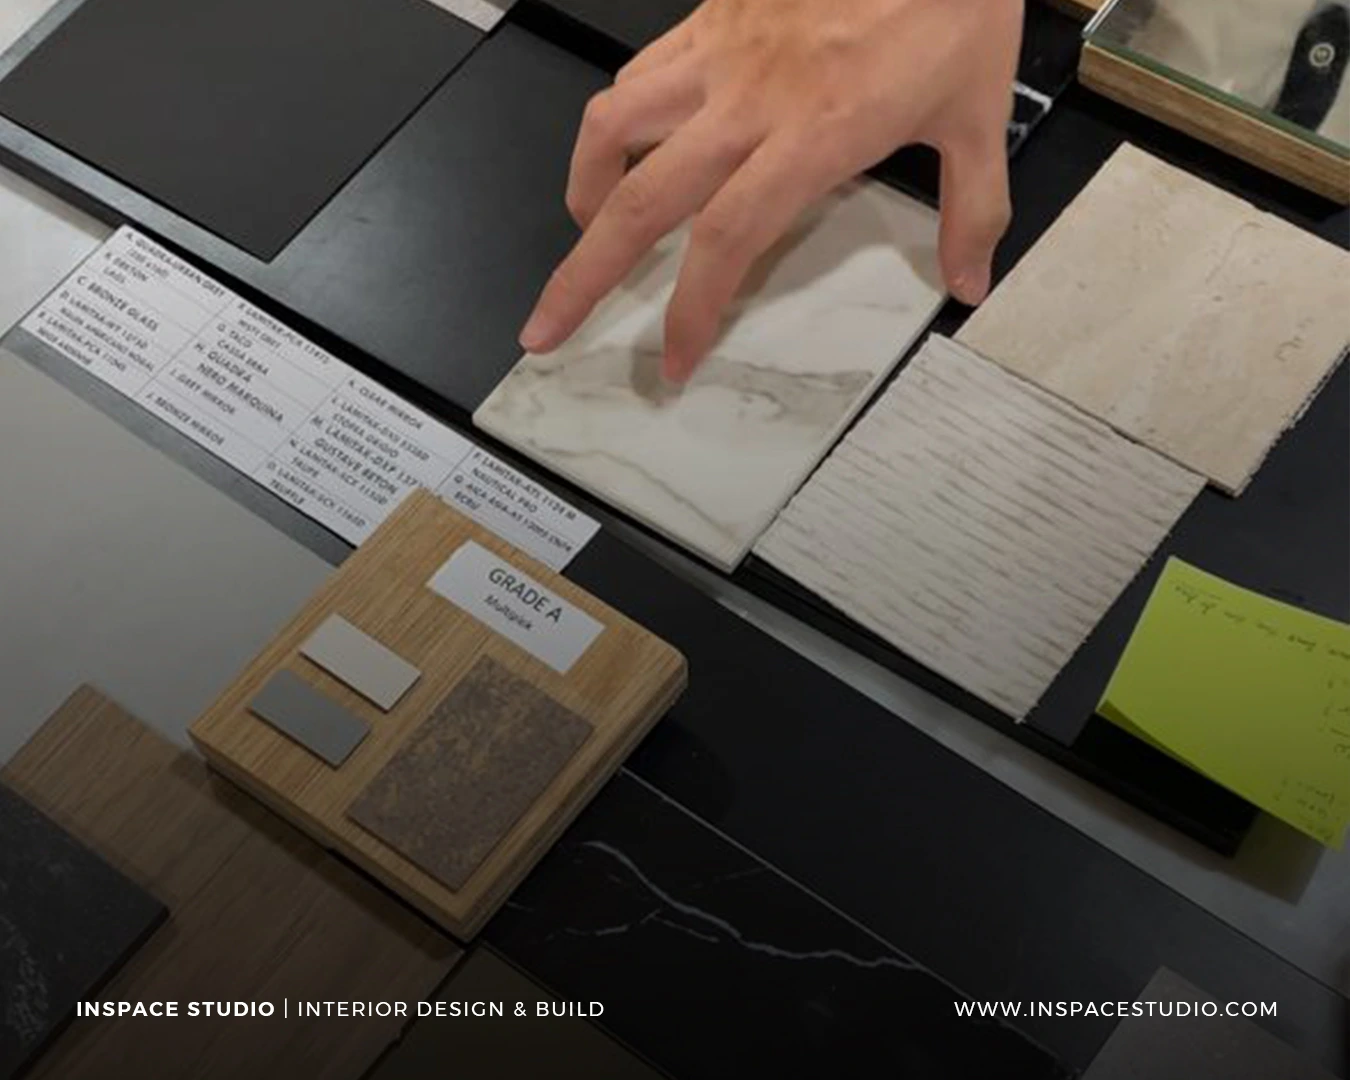
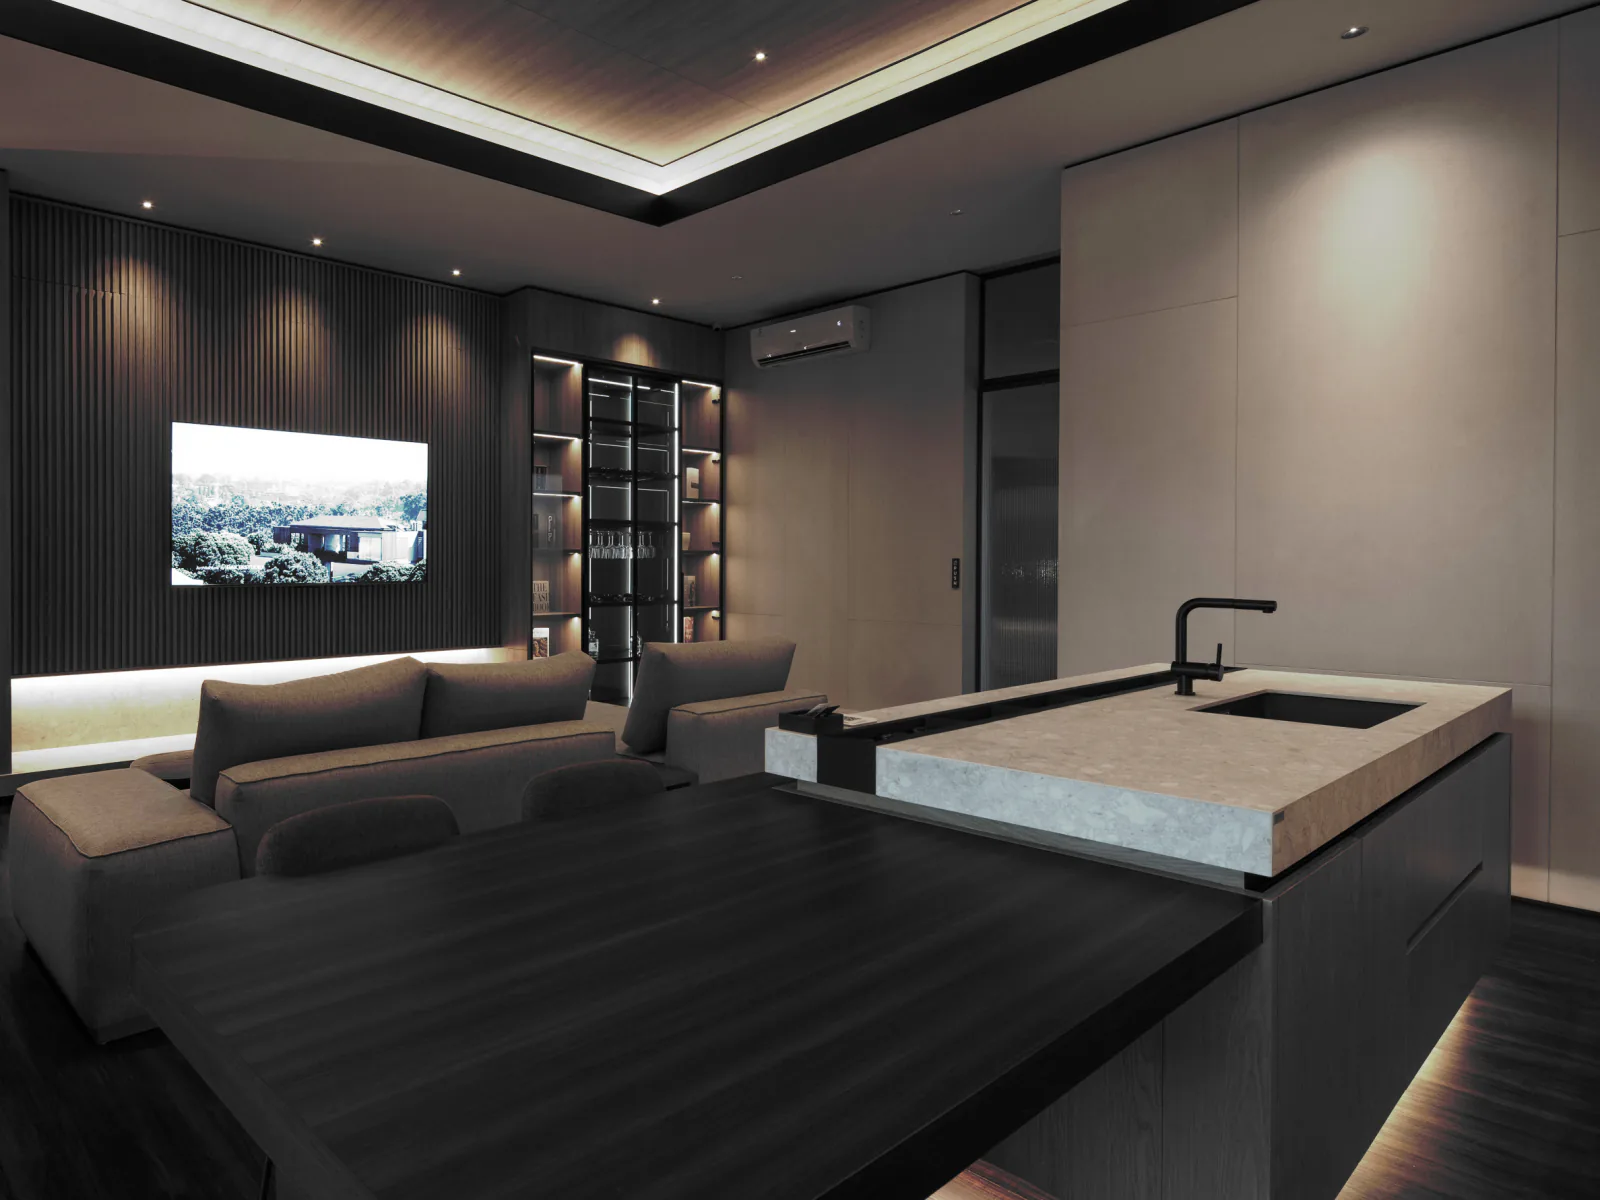
Add files via upload

diff --git a/assets/site.js b/assets/site.js
@@ -239,7 +239,14 @@
   });
   setMenu(false);
   var firstFilter = d.querySelector('[data-action="filter"]');
-  if (firstFilter) {
+  /* deep link: projects.html#apartment preselects that filter */
+  var hashFilter = decodeURIComponent(location.hash.slice(1)).toLowerCase();
+  var linkedFilter = hashFilter && all('[data-action="filter"]').filter(function (b) {
+    return (b.getAttribute('data-filter') || '').toLowerCase() === hashFilter;
+  })[0];
+  if (linkedFilter) {
+    setFilter(linkedFilter.getAttribute('data-filter'), linkedFilter);
+  } else if (firstFilter) {
     state.filter = firstFilter.getAttribute('data-filter');
     firstFilter.style.borderBottomColor = 'currentColor';
     firstFilter.style.opacity = '1';
